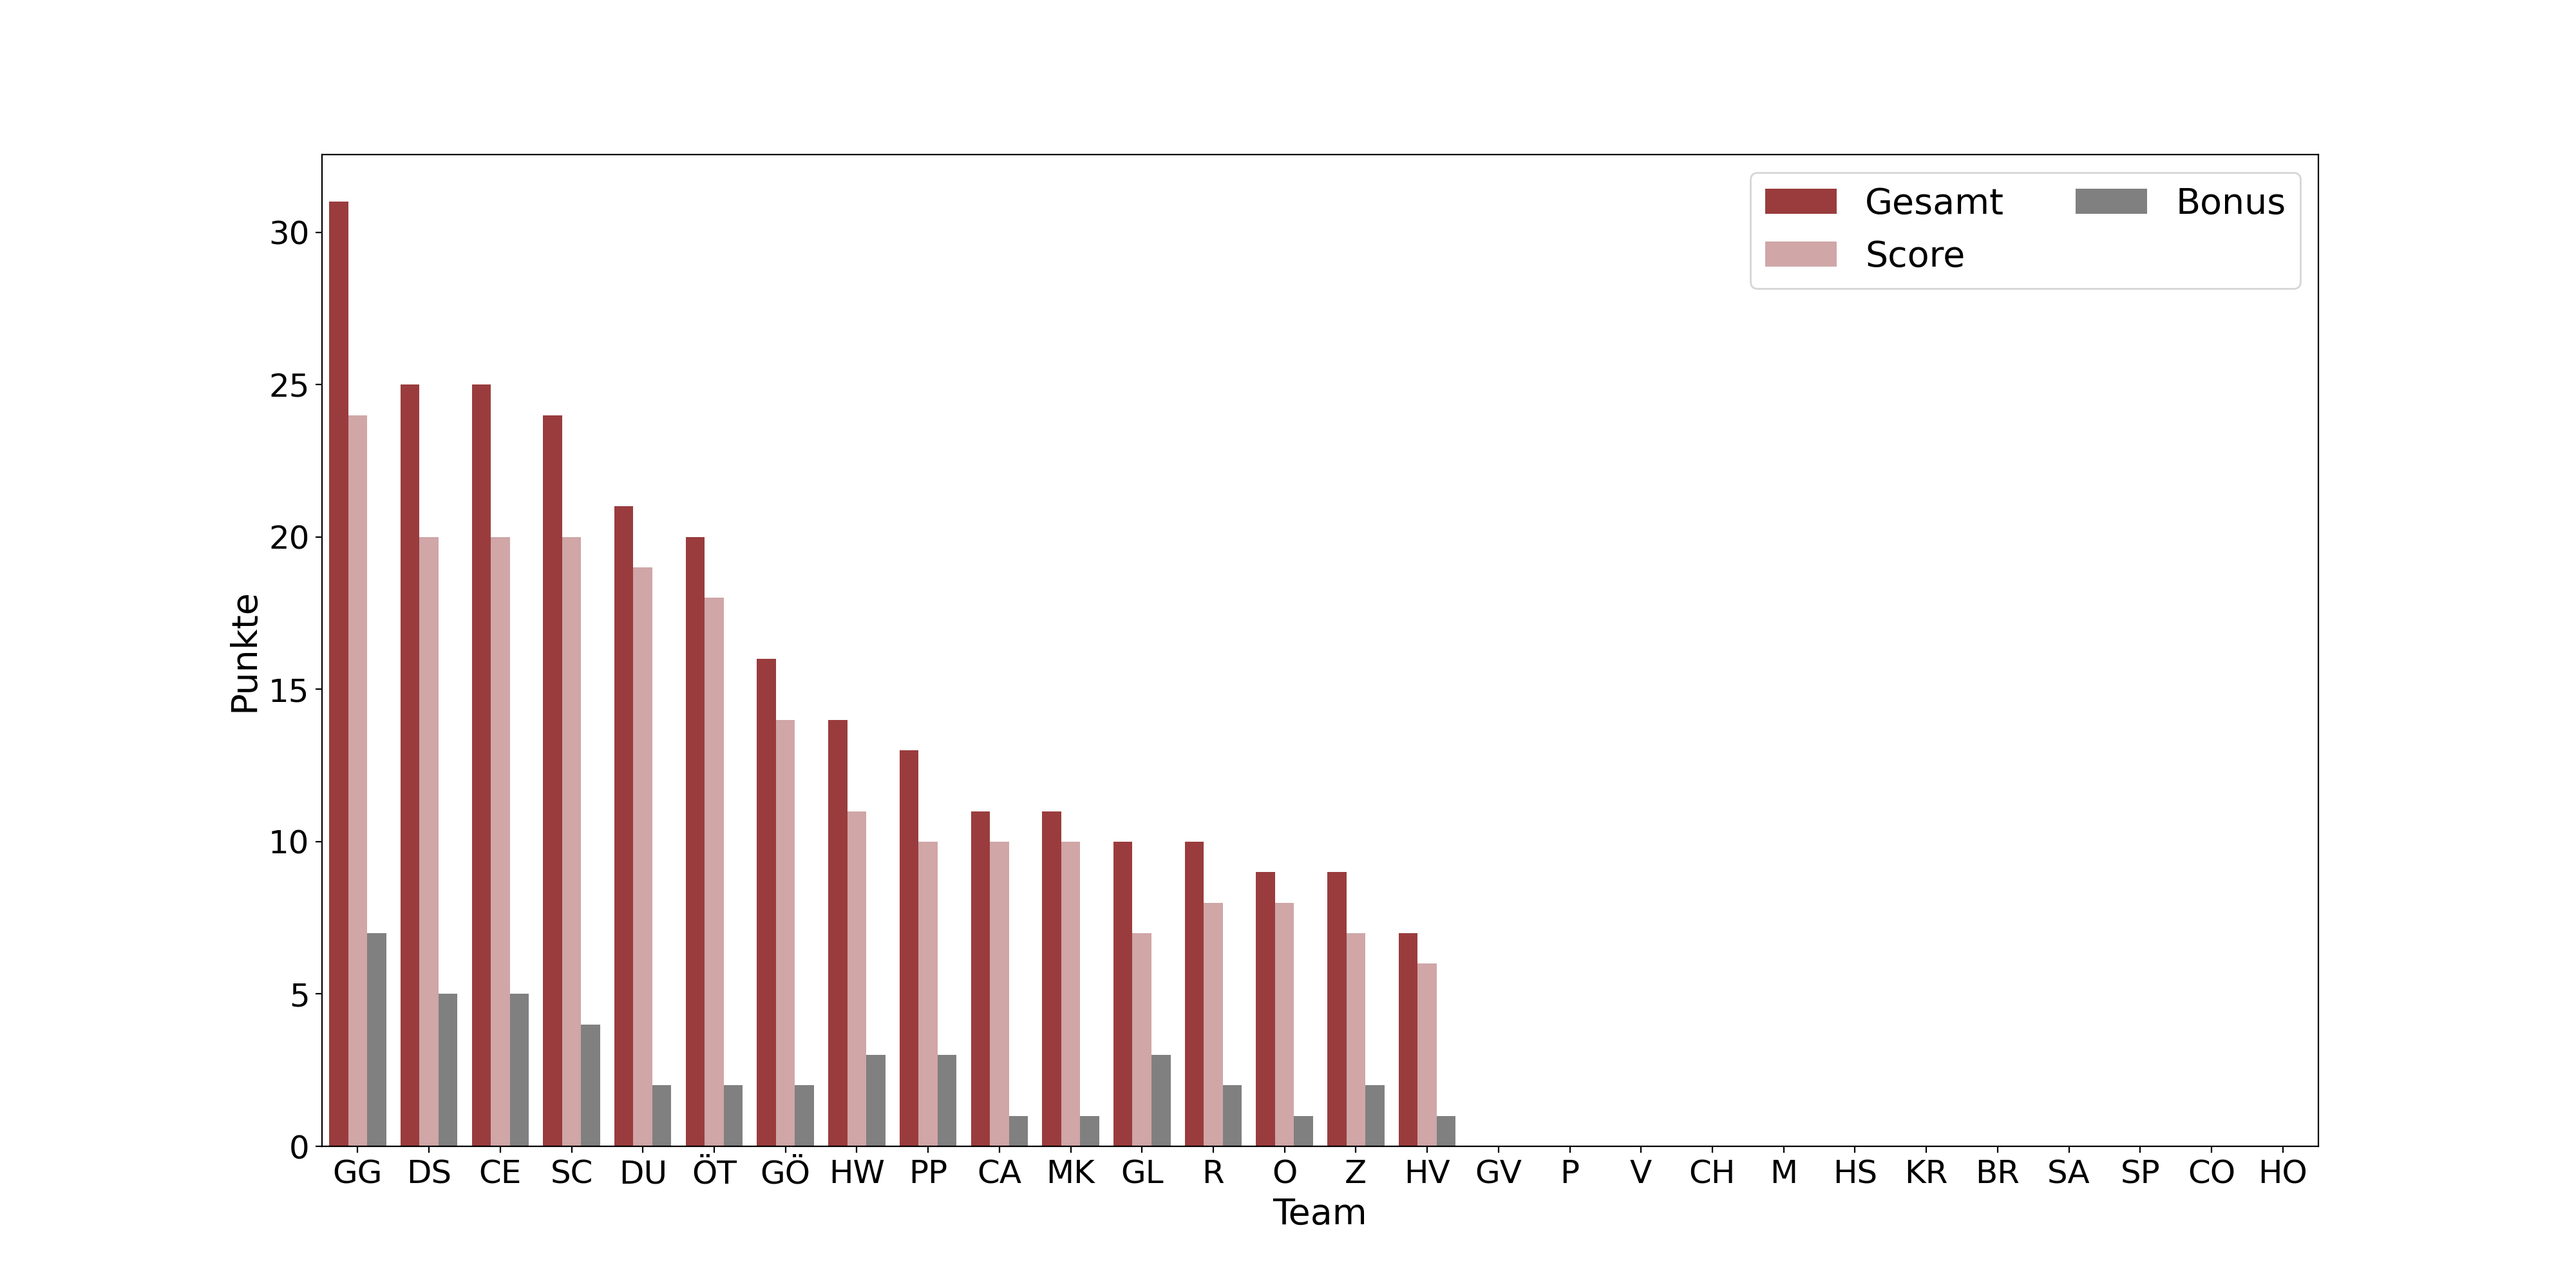
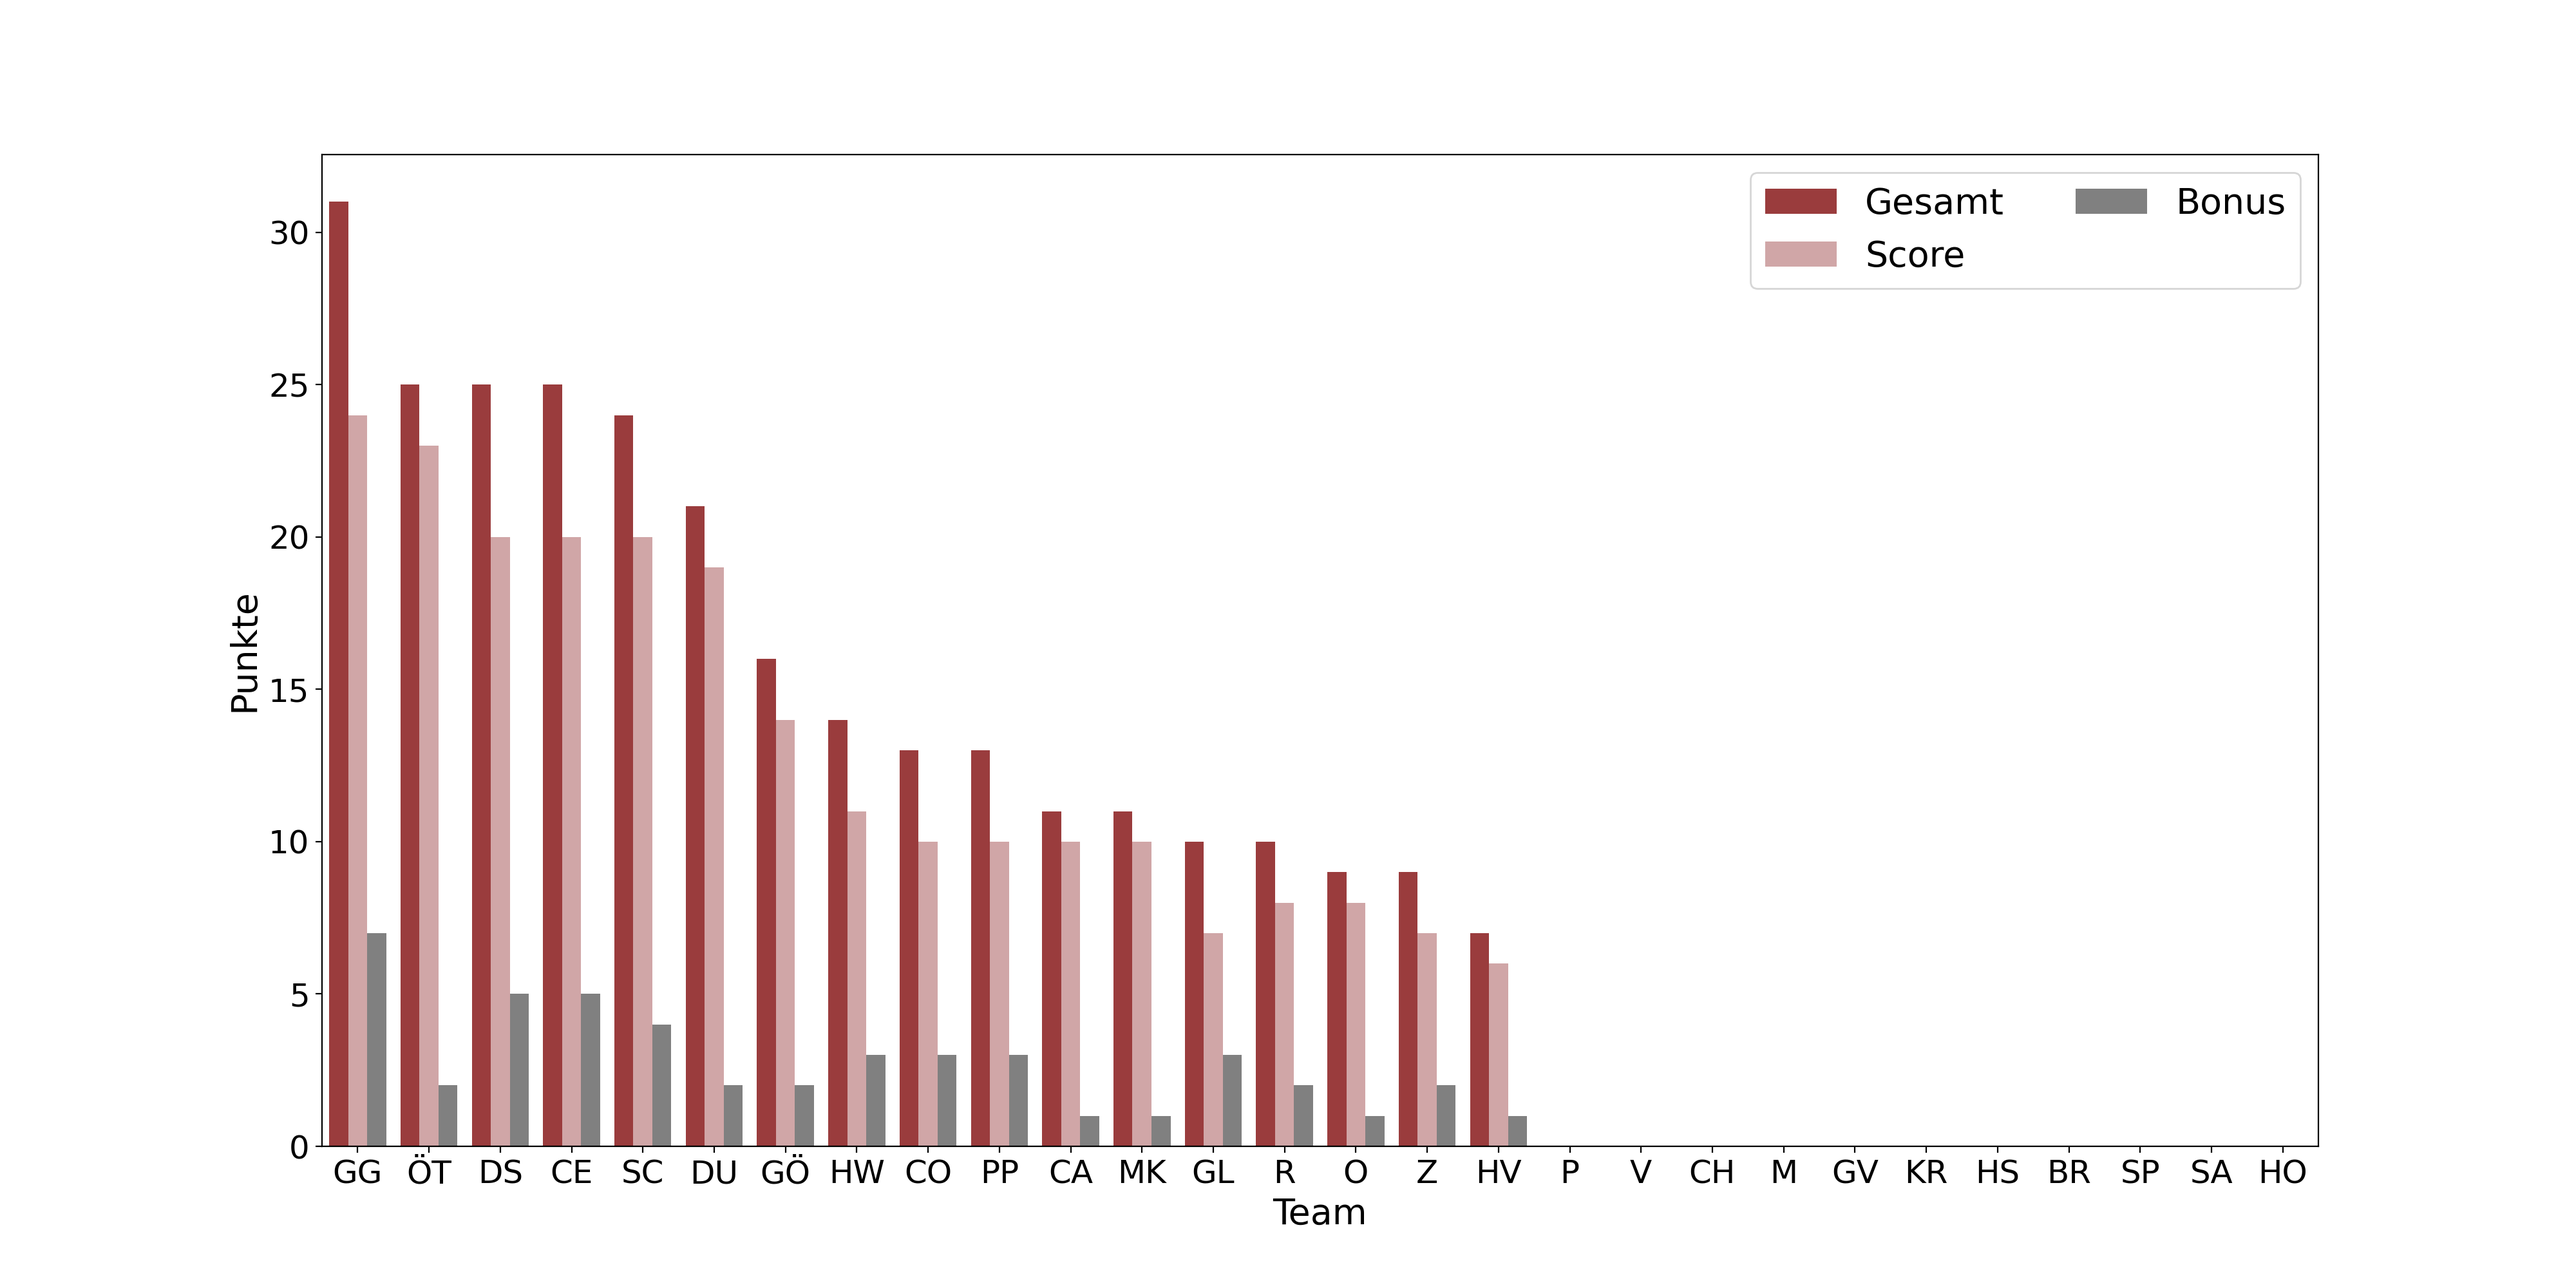
update

diff --git a/css/style_teams.css b/css/style_teams.css
@@ -12,7 +12,7 @@
             background-color: #bde0fe
         }
         .GL {
-            order: 11
+            order: 12
         }
         .GL .team__all-points::after{
             content: "10"
@@ -31,7 +31,7 @@
             background-color: #daeaf6
         }
         .O {
-            order: 13
+            order: 14
         }
         .O .team__all-points::after{ 
             content: " 9"
@@ -51,7 +51,7 @@
             background-color: #9bd0b7
         }
         .Z {
-            order: 14
+            order: 15
         }
         .Z .team__all-points::after{
             content: "9"
@@ -92,7 +92,7 @@
             background-color: #dab894
         }
         .DS {
-            order: 1
+            order: 2
         }
         .DS .team__all-points::after{
             content: "25"
@@ -112,7 +112,7 @@
             background-color: #d6eadf
         }
         .DU {
-            order: 4
+            order: 5
         }
         .DU .team__all-points::after{
             content: "21"
@@ -121,10 +121,10 @@
 
 
         .OT .team__score::after {
-            content: "18/120"
+            content: "23/120"
         }
         .OT .team__stations::after {
-            content: "3/12"
+            content: "4/12"
         }
         .OT .team__bonus::after {
             content: "2/36"
@@ -133,10 +133,10 @@
             background-color: #957DAD
         }
         .OT {
-            order: 5
+            order: 1
         }
         .OT .team__all-points::after{
-            content: " 20"
+            content: " 25"
         }
 
 
@@ -214,7 +214,7 @@
             background-color: #ffdfdc
         }
         .GV {
-            order: 16
+            order: 21
         }
         .GV .team__all-points::after{
             content: "0"
@@ -234,7 +234,7 @@
             background-color: #9d8189
         }
         .SC {
-            order: 3
+            order: 4
         }
         .SC .team__all-points::after{
             content: "24"
@@ -274,7 +274,7 @@
             background-color: #9cadce
         }
         .MK {
-            order: 10
+            order: 11
         }
         .MK .team__all-points::after{
             content: "11"
@@ -294,7 +294,7 @@
             background-color: #a2d2ff
         }
         .SA {
-            order: 24
+            order: 26
         }
         .SA .team__all-points::after{
             content: "0"
@@ -334,7 +334,7 @@
             background-color: #ffafcc
         }
         .R {
-            order: 12
+            order: 13
         }
         .R .team__all-points::after{
             content: "10"
@@ -355,7 +355,7 @@
             background-color: #efe9ae
         }
         .HS {
-            order: 21
+            order: 23
         }
         .HS .team__all-points::after{
             content: "0"
@@ -376,7 +376,7 @@
             background-color: #ff928b
         }
         .CE {
-            order: 2
+            order: 3
         }
         .CE .team__all-points::after{
             content: "25"
@@ -396,7 +396,7 @@
             background-color: #7ec4cf
         }
         .PP {
-            order: 8
+            order: 9
         }
         .PP .team__all-points::after{
             content: "13"
@@ -444,22 +444,22 @@
         
         
         .CO .team__score::after {
-            content: "0/120"
+            content: "10/120"
         }
         .CO .team__stations::after {
-            content: "1/12"
+            content: "2/12"
         }
         .CO .team__bonus::after {
-            content: "0/36"
+            content: "3/36"
         }
         .CO .team__logo {
             background-color: #ff6663
         }
         .CO {
-            order: 26
+            order: 8
         }
         .CO .team__all-points::after{
-            content: "0"
+            content: "13"
         }
 
 
@@ -476,7 +476,7 @@
             background-color: #b8e0d2
         }
         .HV {
-            order: 15
+            order: 16
         }
         .HV .team__all-points::after{
             content: "7"
@@ -496,7 +496,7 @@
             background-color: #e8d1c5
         }
         .BR {
-            order: 23
+            order: 24
         }
         .BR .team__all-points::after{
             content: "0"
@@ -516,7 +516,7 @@
             background-color: #ffc8dd
         }
         .CA {
-            order: 9
+            order: 10
         }
         .CA .team__all-points::after{
             content: "11"

diff --git a/css/style_station.css b/css/style_station.css
@@ -4,7 +4,7 @@
         }
         
         .B .station__teams::after {
-            content: "8/28"
+            content: "9/28"
         }
 
         .C .station__teams::after {
@@ -28,7 +28,7 @@
         }
 
         .H .station__teams::after {
-            content: "2/28"
+            content: "3/28"
         }
 
         .I .station__teams::after {
